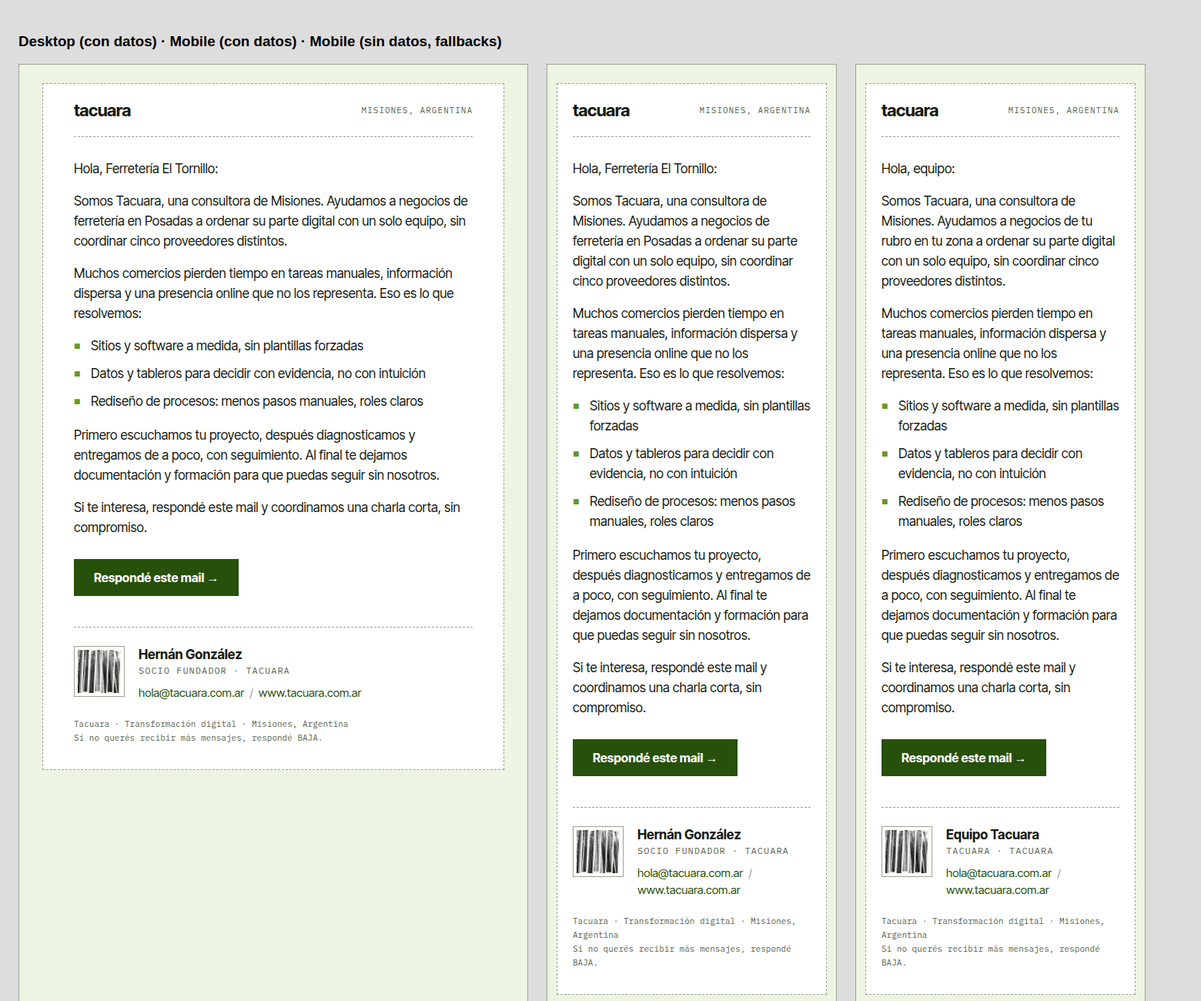
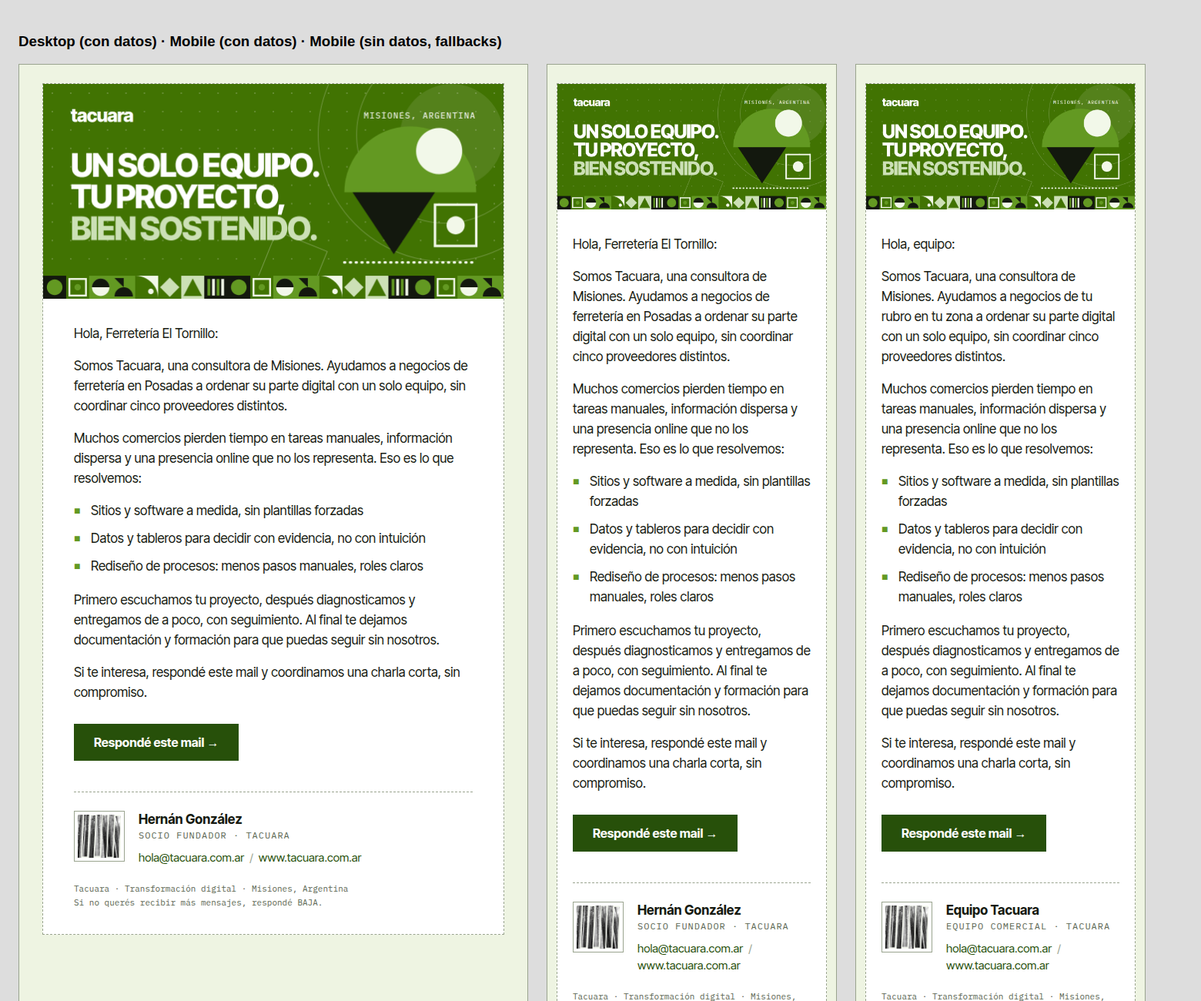
seguimos con el email

diff --git a/src/routes/enviar.tsx b/src/routes/enviar.tsx
@@ -17,8 +17,8 @@ export const Route = createFileRoute("/enviar")({
   component: Mailer,
 });
 
-const field = "w-full border border-dashed border-ink/55 bg-white px-3 py-2 text-base outline-none focus:border-impact";
-const hint = "text-sm text-ink/60";
+const field = "w-full border border-dashed border-ink/55 bg-white px-2.5 py-1.5 text-sm outline-none focus:border-impact";
+const hint = "text-xs text-ink/60";
 
 /** Una línea por destinatario: email; negocio; rubro; ciudad (separa con ; , o tab: sirve pegar desde una planilla). */
 function parseRecipients(raw: string) {
@@ -47,6 +47,8 @@ function Mailer() {
   const [body, setBody] = useState(DEFAULT_BODY);
   const [nombre, setNombre] = useState("");
   const [rol, setRol] = useState("");
+  const [confirmOpen, setConfirmOpen] = useState(false);
+  const [dark, setDark] = useState(false);
   const [status, setStatus] = useState<{ kind: "idle" | "busy" | "ok" | "error"; msg?: string }>({ kind: "idle" });
 
   // La firma se recuerda en este navegador.
@@ -62,10 +64,15 @@ function Mailer() {
   const { list, invalid } = useMemo(() => parseRecipients(raw), [raw]);
   const first = list[0];
   const vars = { ...first, remitente_nombre: nombre, remitente_rol: rol };
+  // Gmail web no aplica el @media de modo oscuro; Apple Mail sí. El selector fuerza uno u otro en la vista previa.
   const preview = useMemo(
-    () => renderEmail({ body, preheader: DEFAULT_PREHEADER, vars }).html,
+    () =>
+      renderEmail({ body, preheader: DEFAULT_PREHEADER, vars }).html.replace(
+        "@media (prefers-color-scheme: dark)",
+        dark ? "@media all" : "@media not all",
+      ),
     // eslint-disable-next-line react-hooks/exhaustive-deps
-    [body, first, nombre, rol],
+    [body, first, nombre, rol, dark],
   );
 
   async function unlock(e: React.FormEvent) {
@@ -81,7 +88,7 @@ function Mailer() {
   }
 
   async function send() {
-    if (!window.confirm(`¿Enviar a ${list.length} destinatario(s)?\n\nAsunto: ${fill(subject, vars)}`)) return;
+    setConfirmOpen(false);
     setStatus({ kind: "busy" });
     try {
       const res = await sendMail({
@@ -95,7 +102,10 @@ function Mailer() {
           remitente_rol: rol || undefined,
         },
       });
-      setStatus({ kind: "ok", msg: `Enviado a ${res.sent} destinatario(s).` });
+      setRaw("");
+      setSubject(DEFAULT_SUBJECTS[0]!);
+      setBody(DEFAULT_BODY);
+      setStatus({ kind: "ok", msg: `Enviado a ${res.sent} destinatario(s). El formulario quedó limpio.` });
     } catch (err) {
       setStatus({ kind: "error", msg: err instanceof Error ? err.message : "Error al enviar." });
     }
@@ -127,57 +137,54 @@ function Mailer() {
   const ready = list.length > 0 && subject.trim() && body.trim() && nombre.trim() && invalid.length === 0 && status.kind !== "busy";
 
   return (
-    <main className="min-h-screen bg-background px-4 py-8 text-ink sm:px-8">
-      <div className="mx-auto max-w-[96rem]">
-        <p className="mono-label mb-1">Mandador · sale como hola@tacuara.com.ar</p>
-        <h1 className="display mb-6 text-4xl">Enviar presentación</h1>
-        <div className="grid gap-8 lg:grid-cols-2">
-          <div className="space-y-5">
+    <main className="flex h-screen flex-col overflow-hidden bg-background px-4 py-3 text-ink sm:px-6">
+      <div className="mx-auto flex min-h-0 w-full max-w-[96rem] flex-1 flex-col">
+        <div className="mb-2 flex items-baseline justify-between gap-4 border-b border-dashed border-ink/55 pb-2">
+          <h1 className="display text-2xl">Enviar presentación</h1>
+          <p className="mono-label">Sale como hola@tacuara.com.ar</p>
+        </div>
+        <div className="grid min-h-0 flex-1 gap-5 lg:grid-cols-[minmax(0,26rem)_1fr] xl:grid-cols-[minmax(0,30rem)_1fr]">
+          <div className="flex min-h-0 flex-col gap-2.5 overflow-y-auto pr-1">
             <label className="block space-y-1">
               <span className="mono-label">1 · Destinatarios ({list.length})</span>
               <textarea
-                className={`${field} font-mono text-sm`}
-                rows={5}
+                className={`${field} font-mono text-xs`}
+                rows={3}
                 spellCheck={false}
-                placeholder={"info@ferreteria.com; Ferretería El Tornillo; Ferretería; Posadas\ncontacto@panaderia.com; Panadería Sol; Panadería; Oberá"}
+                placeholder={"info@ferreteria.com; Ferretería El Tornillo; Ferretería; Posadas"}
                 value={raw}
                 onChange={(e) => setRaw(e.target.value)}
               />
               <p className={hint}>Una línea por contacto: email; negocio; rubro; ciudad. Solo el email es obligatorio.</p>
-              {invalid.length > 0 && <p className="text-sm text-destructive">Email inválido: {invalid.join(" | ")}</p>}
+              {invalid.length > 0 && <p className="text-xs text-destructive">Email inválido: {invalid.join(" | ")}</p>}
             </label>
-
-            <div className="space-y-1">
-              <span className="mono-label">2 · Asunto</span>
-              <input className={field} value={subject} onChange={(e) => setSubject(e.target.value)} />
-              <div className="flex flex-wrap gap-2 pt-1">
-                {DEFAULT_SUBJECTS.map((s) => (
-                  <button
-                    key={s}
-                    type="button"
-                    className="rounded-full border border-ink/60 px-3 py-1 text-sm hover:bg-warm"
-                    onClick={() => setSubject(s)}
-                  >
-                    {s}
-                  </button>
-                ))}
-              </div>
-            </div>
 
             <label className="block space-y-1">
-              <span className="mono-label">3 · Mensaje ({words} palabras)</span>
-              <textarea className={field} rows={16} value={body} onChange={(e) => setBody(e.target.value)} />
-              <p className={hint}>
-                Línea en blanco = párrafo nuevo. Una línea que empieza con «- » es una viñeta. {"{{nombre_negocio}}"}, {"{{rubro}}"} y{" "}
-                {"{{ciudad}}"} se completan solos; si falta el dato, queda un texto genérico.
-              </p>
-              {words > 150 && <p className="text-sm text-destructive">Quedó largo: conviene no pasar de 150 palabras.</p>}
-              <button type="button" className="text-sm underline" onClick={() => setBody(DEFAULT_BODY)}>
-                Volver al texto original
-              </button>
+              <span className="mono-label">2 · Asunto</span>
+              <select className={field} value={DEFAULT_SUBJECTS.includes(subject) ? subject : ""} onChange={(e) => e.target.value && setSubject(e.target.value)}>
+                <option value="">Personalizado…</option>
+                {DEFAULT_SUBJECTS.map((x) => (
+                  <option key={x} value={x}>
+                    {x}
+                  </option>
+                ))}
+              </select>
+              <input className={field} value={subject} onChange={(e) => setSubject(e.target.value)} />
             </label>
 
-            <div className="grid gap-3 sm:grid-cols-2">
+            <label className="flex min-h-0 flex-1 flex-col space-y-1">
+              <span className="mono-label">3 · Mensaje ({words} palabras)</span>
+              <textarea className={`${field} min-h-[8rem] flex-1`} value={body} onChange={(e) => setBody(e.target.value)} />
+              <p className={hint}>
+                Línea en blanco = párrafo nuevo. «- » al inicio = viñeta. {"{{nombre_negocio}}"}, {"{{rubro}}"} y {"{{ciudad}}"} se completan solos.{" "}
+                <button type="button" className="underline" onClick={() => setBody(DEFAULT_BODY)}>
+                  Texto original
+                </button>
+              </p>
+              {words > 150 && <p className="text-xs text-destructive">Quedó largo: conviene no pasar de 150 palabras.</p>}
+            </label>
+
+            <div className="grid grid-cols-2 gap-2">
               <label className="block space-y-1">
                 <span className="mono-label">4 · Tu nombre</span>
                 <input className={field} value={nombre} onChange={(e) => setNombre(e.target.value)} />
@@ -188,21 +195,68 @@ function Mailer() {
               </label>
             </div>
 
-            <button className="btn-solid h-12 w-full sm:w-fit" disabled={!ready} onClick={send}>
-              {status.kind === "busy" ? "Enviando…" : `Enviar a ${list.length}`}
-            </button>
-            {status.kind === "ok" && <p className="text-sm text-impact">{status.msg}</p>}
-            {status.kind === "error" && <p className="text-sm text-destructive">{status.msg}</p>}
+            <div className="flex items-center gap-3">
+              <button className="btn-solid h-10 shrink-0 disabled:opacity-50" disabled={!ready} onClick={() => setConfirmOpen(true)}>
+                {status.kind === "busy" ? "Enviando…" : `Enviar a ${list.length}`}
+              </button>
+              {status.kind === "ok" && <p className="text-xs text-impact">{status.msg}</p>}
+              {status.kind === "error" && <p className="text-xs text-destructive">{status.msg}</p>}
+            </div>
           </div>
 
-          <div className="space-y-1">
-            <span className="mono-label">
-              Vista previa · asunto: {fill(subject, vars)}
-            </span>
-            <iframe title="Vista previa" sandbox="" srcDoc={preview} className="h-[60rem] w-full border border-dashed border-ink/55 bg-white" />
+          <div className="flex min-h-0 flex-col gap-1">
+            <div className="flex items-center justify-between gap-3">
+              <span className="mono-label truncate">Asunto: {fill(subject, vars)}</span>
+              <div className="flex shrink-0 gap-1 text-xs">
+                {[false, true].map((d) => (
+                  <button
+                    key={String(d)}
+                    type="button"
+                    onClick={() => setDark(d)}
+                    className={`rounded-full border border-ink/60 px-2.5 py-0.5 ${dark === d ? "bg-ink text-white" : "hover:bg-warm"}`}
+                  >
+                    {d ? "Oscuro" : "Claro"}
+                  </button>
+                ))}
+              </div>
+            </div>
+            <iframe title="Vista previa" sandbox="" srcDoc={preview} className="min-h-0 w-full flex-1 border border-dashed border-ink/55 bg-white" />
           </div>
         </div>
       </div>
+
+      {confirmOpen && (
+        <div className="fixed inset-0 z-50 grid place-items-center bg-ink/60 px-4" role="presentation" onClick={() => setConfirmOpen(false)}>
+          <div
+            role="alertdialog"
+            aria-modal="true"
+            aria-labelledby="confirm-title"
+            className="w-full max-w-md border border-dashed border-ink/55 bg-white p-6 shadow-[10px_10px_0_0_var(--color-accent)]"
+            onClick={(e) => e.stopPropagation()}
+          >
+            <p className="mono-label text-impact">Confirmar envío</p>
+            <h2 id="confirm-title" className="display mt-2 text-3xl">
+              ¿Enviar a {list.length}?
+            </h2>
+            <p className="mt-3 text-sm leading-snug">
+              <span className="mono-label block text-ink/60">Asunto</span>
+              {fill(subject, vars)}
+            </p>
+            <p className="mt-2 break-words text-sm leading-snug text-ink/70">
+              {list.slice(0, 3).map((r) => r.email).join(", ")}
+              {list.length > 3 && ` y ${list.length - 3} más`}
+            </p>
+            <div className="mt-6 flex gap-3">
+              <button type="button" className="btn-dashed h-11 flex-1" autoFocus onClick={() => setConfirmOpen(false)}>
+                Cancelar
+              </button>
+              <button type="button" className="btn-solid h-11 flex-1" onClick={send}>
+                Sí, enviar
+              </button>
+            </div>
+          </div>
+        </div>
+      )}
     </main>
   );
 }

diff --git a/emails/presentacion/preview.html b/emails/presentacion/preview.html
@@ -44,14 +44,8 @@
 <tr><td align=&quot;center&quot; style=&quot;padding:24px 12px;&quot;>
 <!--[if mso]><table role=&quot;presentation&quot; width=&quot;600&quot; align=&quot;center&quot; cellpadding=&quot;0&quot; cellspacing=&quot;0&quot; border=&quot;0&quot;><tr><td><![endif]-->
 <table role=&quot;presentation&quot; class=&quot;container bg-card bd&quot; width=&quot;600&quot; cellpadding=&quot;0&quot; cellspacing=&quot;0&quot; border=&quot;0&quot; bgcolor=&quot;#FFFFFF&quot; style=&quot;width:100%;max-width:600px;background-color:#FFFFFF;border:1px dashed #9AA48F;&quot;>
-<tr><td class=&quot;px&quot; style=&quot;padding:20px 40px 0 40px;&quot;>
-<table role=&quot;presentation&quot; width=&quot;100%&quot; cellpadding=&quot;0&quot; cellspacing=&quot;0&quot; border=&quot;0&quot;><tr>
-<td class=&quot;tx&quot; style=&quot;font-family:'Inter Tight', Arial, Helvetica, sans-serif;font-size:22px;line-height:28px;font-weight:700;letter-spacing:-0.5px;color:#161A11;&quot;>tacuara</td>
-<td align=&quot;right&quot; class=&quot;tx-mute&quot; style=&quot;font-family:'IBM Plex Mono', 'Courier New', Courier, monospace;font-size:11px;line-height:28px;letter-spacing:1px;text-transform:uppercase;color:#5B6652;&quot;>Misiones, Argentina</td>
-</tr></table>
-</td></tr>
-<tr><td class=&quot;px&quot; style=&quot;padding:20px 40px 0 40px;&quot;><table role=&quot;presentation&quot; width=&quot;100%&quot; cellpadding=&quot;0&quot; cellspacing=&quot;0&quot; border=&quot;0&quot;><tr><td class=&quot;bd&quot; style=&quot;border-top:1px dashed #9AA48F;font-size:0;line-height:0;&quot;>&amp;nbsp;</td></tr></table></td></tr>
-<tr><td class=&quot;px&quot; style=&quot;padding:28px 40px 8px 40px;&quot;>
+<tr><td style=&quot;font-size:0;line-height:0;&quot;><img src=&quot;../../public/email/header.png&quot; width=&quot;600&quot; height=&quot;280&quot; alt=&quot;Tacuara: un solo equipo. Tu proyecto, bien sostenido.&quot; style=&quot;display:block;width:100%;max-width:600px;height:auto;border:0;outline:none;text-decoration:none;font-family:'Inter Tight', Arial, Helvetica, sans-serif;font-size:20px;line-height:26px;font-weight:700;color:#27500A;&quot;></td></tr>
+<tr><td class=&quot;px&quot; style=&quot;padding:32px 40px 8px 40px;&quot;>
 <table role=&quot;presentation&quot; width=&quot;100%&quot; cellpadding=&quot;0&quot; cellspacing=&quot;0&quot; border=&quot;0&quot;>
 <tr><td class=&quot;tx&quot; style=&quot;padding:0 0 16px 0;font-family:'Inter Tight', Arial, Helvetica, sans-serif;font-size:17px;line-height:26px;color:#161A11;&quot;>Hola, Ferretería El Tornillo:</td></tr>
 <tr><td class=&quot;tx&quot; style=&quot;padding:0 0 16px 0;font-family:'Inter Tight', Arial, Helvetica, sans-serif;font-size:17px;line-height:26px;color:#161A11;&quot;>Somos Tacuara, una consultora de Misiones. Ayudamos a negocios de ferretería en Posadas a ordenar su parte digital con un solo equipo, sin coordinar cinco proveedores distintos.</td></tr>
@@ -134,14 +128,8 @@
 <tr><td align=&quot;center&quot; style=&quot;padding:24px 12px;&quot;>
 <!--[if mso]><table role=&quot;presentation&quot; width=&quot;600&quot; align=&quot;center&quot; cellpadding=&quot;0&quot; cellspacing=&quot;0&quot; border=&quot;0&quot;><tr><td><![endif]-->
 <table role=&quot;presentation&quot; class=&quot;container bg-card bd&quot; width=&quot;600&quot; cellpadding=&quot;0&quot; cellspacing=&quot;0&quot; border=&quot;0&quot; bgcolor=&quot;#FFFFFF&quot; style=&quot;width:100%;max-width:600px;background-color:#FFFFFF;border:1px dashed #9AA48F;&quot;>
-<tr><td class=&quot;px&quot; style=&quot;padding:20px 40px 0 40px;&quot;>
-<table role=&quot;presentation&quot; width=&quot;100%&quot; cellpadding=&quot;0&quot; cellspacing=&quot;0&quot; border=&quot;0&quot;><tr>
-<td class=&quot;tx&quot; style=&quot;font-family:'Inter Tight', Arial, Helvetica, sans-serif;font-size:22px;line-height:28px;font-weight:700;letter-spacing:-0.5px;color:#161A11;&quot;>tacuara</td>
-<td align=&quot;right&quot; class=&quot;tx-mute&quot; style=&quot;font-family:'IBM Plex Mono', 'Courier New', Courier, monospace;font-size:11px;line-height:28px;letter-spacing:1px;text-transform:uppercase;color:#5B6652;&quot;>Misiones, Argentina</td>
-</tr></table>
-</td></tr>
-<tr><td class=&quot;px&quot; style=&quot;padding:20px 40px 0 40px;&quot;><table role=&quot;presentation&quot; width=&quot;100%&quot; cellpadding=&quot;0&quot; cellspacing=&quot;0&quot; border=&quot;0&quot;><tr><td class=&quot;bd&quot; style=&quot;border-top:1px dashed #9AA48F;font-size:0;line-height:0;&quot;>&amp;nbsp;</td></tr></table></td></tr>
-<tr><td class=&quot;px&quot; style=&quot;padding:28px 40px 8px 40px;&quot;>
+<tr><td style=&quot;font-size:0;line-height:0;&quot;><img src=&quot;../../public/email/header.png&quot; width=&quot;600&quot; height=&quot;280&quot; alt=&quot;Tacuara: un solo equipo. Tu proyecto, bien sostenido.&quot; style=&quot;display:block;width:100%;max-width:600px;height:auto;border:0;outline:none;text-decoration:none;font-family:'Inter Tight', Arial, Helvetica, sans-serif;font-size:20px;line-height:26px;font-weight:700;color:#27500A;&quot;></td></tr>
+<tr><td class=&quot;px&quot; style=&quot;padding:32px 40px 8px 40px;&quot;>
 <table role=&quot;presentation&quot; width=&quot;100%&quot; cellpadding=&quot;0&quot; cellspacing=&quot;0&quot; border=&quot;0&quot;>
 <tr><td class=&quot;tx&quot; style=&quot;padding:0 0 16px 0;font-family:'Inter Tight', Arial, Helvetica, sans-serif;font-size:17px;line-height:26px;color:#161A11;&quot;>Hola, Ferretería El Tornillo:</td></tr>
 <tr><td class=&quot;tx&quot; style=&quot;padding:0 0 16px 0;font-family:'Inter Tight', Arial, Helvetica, sans-serif;font-size:17px;line-height:26px;color:#161A11;&quot;>Somos Tacuara, una consultora de Misiones. Ayudamos a negocios de ferretería en Posadas a ordenar su parte digital con un solo equipo, sin coordinar cinco proveedores distintos.</td></tr>
@@ -224,14 +212,8 @@
 <tr><td align=&quot;center&quot; style=&quot;padding:24px 12px;&quot;>
 <!--[if mso]><table role=&quot;presentation&quot; width=&quot;600&quot; align=&quot;center&quot; cellpadding=&quot;0&quot; cellspacing=&quot;0&quot; border=&quot;0&quot;><tr><td><![endif]-->
 <table role=&quot;presentation&quot; class=&quot;container bg-card bd&quot; width=&quot;600&quot; cellpadding=&quot;0&quot; cellspacing=&quot;0&quot; border=&quot;0&quot; bgcolor=&quot;#FFFFFF&quot; style=&quot;width:100%;max-width:600px;background-color:#FFFFFF;border:1px dashed #9AA48F;&quot;>
-<tr><td class=&quot;px&quot; style=&quot;padding:20px 40px 0 40px;&quot;>
-<table role=&quot;presentation&quot; width=&quot;100%&quot; cellpadding=&quot;0&quot; cellspacing=&quot;0&quot; border=&quot;0&quot;><tr>
-<td class=&quot;tx&quot; style=&quot;font-family:'Inter Tight', Arial, Helvetica, sans-serif;font-size:22px;line-height:28px;font-weight:700;letter-spacing:-0.5px;color:#161A11;&quot;>tacuara</td>
-<td align=&quot;right&quot; class=&quot;tx-mute&quot; style=&quot;font-family:'IBM Plex Mono', 'Courier New', Courier, monospace;font-size:11px;line-height:28px;letter-spacing:1px;text-transform:uppercase;color:#5B6652;&quot;>Misiones, Argentina</td>
-</tr></table>
-</td></tr>
-<tr><td class=&quot;px&quot; style=&quot;padding:20px 40px 0 40px;&quot;><table role=&quot;presentation&quot; width=&quot;100%&quot; cellpadding=&quot;0&quot; cellspacing=&quot;0&quot; border=&quot;0&quot;><tr><td class=&quot;bd&quot; style=&quot;border-top:1px dashed #9AA48F;font-size:0;line-height:0;&quot;>&amp;nbsp;</td></tr></table></td></tr>
-<tr><td class=&quot;px&quot; style=&quot;padding:28px 40px 8px 40px;&quot;>
+<tr><td style=&quot;font-size:0;line-height:0;&quot;><img src=&quot;../../public/email/header.png&quot; width=&quot;600&quot; height=&quot;280&quot; alt=&quot;Tacuara: un solo equipo. Tu proyecto, bien sostenido.&quot; style=&quot;display:block;width:100%;max-width:600px;height:auto;border:0;outline:none;text-decoration:none;font-family:'Inter Tight', Arial, Helvetica, sans-serif;font-size:20px;line-height:26px;font-weight:700;color:#27500A;&quot;></td></tr>
+<tr><td class=&quot;px&quot; style=&quot;padding:32px 40px 8px 40px;&quot;>
 <table role=&quot;presentation&quot; width=&quot;100%&quot; cellpadding=&quot;0&quot; cellspacing=&quot;0&quot; border=&quot;0&quot;>
 <tr><td class=&quot;tx&quot; style=&quot;padding:0 0 16px 0;font-family:'Inter Tight', Arial, Helvetica, sans-serif;font-size:17px;line-height:26px;color:#161A11;&quot;>Hola, equipo:</td></tr>
 <tr><td class=&quot;tx&quot; style=&quot;padding:0 0 16px 0;font-family:'Inter Tight', Arial, Helvetica, sans-serif;font-size:17px;line-height:26px;color:#161A11;&quot;>Somos Tacuara, una consultora de Misiones. Ayudamos a negocios de tu rubro en tu zona a ordenar su parte digital con un solo equipo, sin coordinar cinco proveedores distintos.</td></tr>

diff --git a/emails/presentacion/email.html b/emails/presentacion/email.html
@@ -41,14 +41,8 @@
 <tr><td align="center" style="padding:24px 12px;">
 <!--[if mso]><table role="presentation" width="600" align="center" cellpadding="0" cellspacing="0" border="0"><tr><td><![endif]-->
 <table role="presentation" class="container bg-card bd" width="600" cellpadding="0" cellspacing="0" border="0" bgcolor="#FFFFFF" style="width:100%;max-width:600px;background-color:#FFFFFF;border:1px dashed #9AA48F;">
-<tr><td class="px" style="padding:20px 40px 0 40px;">
-<table role="presentation" width="100%" cellpadding="0" cellspacing="0" border="0"><tr>
-<td class="tx" style="font-family:'Inter Tight', Arial, Helvetica, sans-serif;font-size:22px;line-height:28px;font-weight:700;letter-spacing:-0.5px;color:#161A11;">tacuara</td>
-<td align="right" class="tx-mute" style="font-family:'IBM Plex Mono', 'Courier New', Courier, monospace;font-size:11px;line-height:28px;letter-spacing:1px;text-transform:uppercase;color:#5B6652;">Misiones, Argentina</td>
-</tr></table>
-</td></tr>
-<tr><td class="px" style="padding:20px 40px 0 40px;"><table role="presentation" width="100%" cellpadding="0" cellspacing="0" border="0"><tr><td class="bd" style="border-top:1px dashed #9AA48F;font-size:0;line-height:0;">&nbsp;</td></tr></table></td></tr>
-<tr><td class="px" style="padding:28px 40px 8px 40px;">
+<tr><td style="font-size:0;line-height:0;"><img src="https://www.tacuara.com.ar/email/header.png" width="600" height="280" alt="Tacuara: un solo equipo. Tu proyecto, bien sostenido." style="display:block;width:100%;max-width:600px;height:auto;border:0;outline:none;text-decoration:none;font-family:'Inter Tight', Arial, Helvetica, sans-serif;font-size:20px;line-height:26px;font-weight:700;color:#27500A;"></td></tr>
+<tr><td class="px" style="padding:32px 40px 8px 40px;">
 <table role="presentation" width="100%" cellpadding="0" cellspacing="0" border="0">
 <tr><td class="tx" style="padding:0 0 16px 0;font-family:'Inter Tight', Arial, Helvetica, sans-serif;font-size:17px;line-height:26px;color:#161A11;">Hola, {{nombre_negocio|equipo}}:</td></tr>
 <tr><td class="tx" style="padding:0 0 16px 0;font-family:'Inter Tight', Arial, Helvetica, sans-serif;font-size:17px;line-height:26px;color:#161A11;">Somos Tacuara, una consultora de Misiones. Ayudamos a negocios de {{rubro}} en {{ciudad}} a ordenar su parte digital con un solo equipo, sin coordinar cinco proveedores distintos.</td></tr>

diff --git a/src/lib/email-template.ts b/src/lib/email-template.ts
@@ -8,6 +8,7 @@
 
 export const SITE_URL = "https://www.tacuara.com.ar";
 export const LOGO_URL = `${SITE_URL}/email/tacuara-mark.png`;
+export const HEADER_URL = `${SITE_URL}/email/header.png`;
 export const CONTACT_EMAIL = "hola@tacuara.com.ar";
 /** Teléfono/WhatsApp para la firma, ej. "+54 9 376 000 0000". Vacío = no se muestra. */
 export const CONTACT_PHONE: string = "";
@@ -202,14 +203,8 @@ export function renderEmail({ body, preheader = DEFAULT_PREHEADER, vars }: Rende
 <tr><td align="center" style="padding:24px 12px;">
 <!--[if mso]><table role="presentation" width="600" align="center" cellpadding="0" cellspacing="0" border="0"><tr><td><![endif]-->
 <table role="presentation" class="container bg-card bd" width="600" cellpadding="0" cellspacing="0" border="0" bgcolor="${C.white}" style="width:100%;max-width:600px;background-color:${C.white};border:1px dashed ${C.line};">
-<tr><td class="px" style="padding:20px 40px 0 40px;">
-<table role="presentation" width="100%" cellpadding="0" cellspacing="0" border="0"><tr>
-<td class="tx" style="font-family:${SANS};font-size:22px;line-height:28px;font-weight:700;letter-spacing:-0.5px;color:${C.ink};">tacuara</td>
-<td align="right" class="tx-mute" style="font-family:${MONO};font-size:11px;line-height:28px;letter-spacing:1px;text-transform:uppercase;color:${C.mute};">Misiones, Argentina</td>
-</tr></table>
-</td></tr>
-<tr><td class="px" style="padding:20px 40px 0 40px;"><table role="presentation" width="100%" cellpadding="0" cellspacing="0" border="0"><tr><td class="bd" style="border-top:1px dashed ${C.line};font-size:0;line-height:0;">&nbsp;</td></tr></table></td></tr>
-<tr><td class="px" style="padding:28px 40px 8px 40px;">
+<tr><td style="font-size:0;line-height:0;"><img src="${HEADER_URL}" width="600" height="280" alt="Tacuara: un solo equipo. Tu proyecto, bien sostenido." style="display:block;width:100%;max-width:600px;height:auto;border:0;outline:none;text-decoration:none;font-family:${SANS};font-size:20px;line-height:26px;font-weight:700;color:${C.green};"></td></tr>
+<tr><td class="px" style="padding:32px 40px 8px 40px;">
 <table role="presentation" width="100%" cellpadding="0" cellspacing="0" border="0">
 ${bodyHtml(body)}
 <tr><td class="cta" style="padding:12px 0 8px 0;">

diff --git a/scripts/build-email.ts b/scripts/build-email.ts
@@ -5,6 +5,7 @@ import {
   DEFAULT_SUBJECTS,
   DEFAULT_PREHEADER,
   LOGO_URL,
+  HEADER_URL,
   countWords,
   renderEmail,
   renderFooter,
@@ -26,7 +27,7 @@ writeFileSync(new URL("footer.html", out), renderFooter());
 writeFileSync(new URL("asuntos.txt", out), DEFAULT_SUBJECTS.join("\n") + `\n\nPreheader (${DEFAULT_PREHEADER.length} caracteres):\n${DEFAULT_PREHEADER}\n`);
 
 const iframe = (src: string, w: number) =>
-  `<iframe style="width:${w}px;height:1250px;border:1px solid #9AA48F;background:#fff" srcdoc="${src.replaceAll(LOGO_URL, "../../public/email/tacuara-mark.png").replace(/&/g, "&amp;").replace(/"/g, "&quot;")}"></iframe>`;
+  `<iframe style="width:${w}px;height:1250px;border:1px solid #9AA48F;background:#fff" srcdoc="${src.replaceAll(LOGO_URL, "../../public/email/tacuara-mark.png").replaceAll(HEADER_URL, "../../public/email/header.png").replace(/&/g, "&amp;").replace(/"/g, "&quot;")}"></iframe>`;
 writeFileSync(
   new URL("preview.html", out),
   `<!DOCTYPE html><html lang="es"><meta charset="utf-8"><title>Preview</title>
